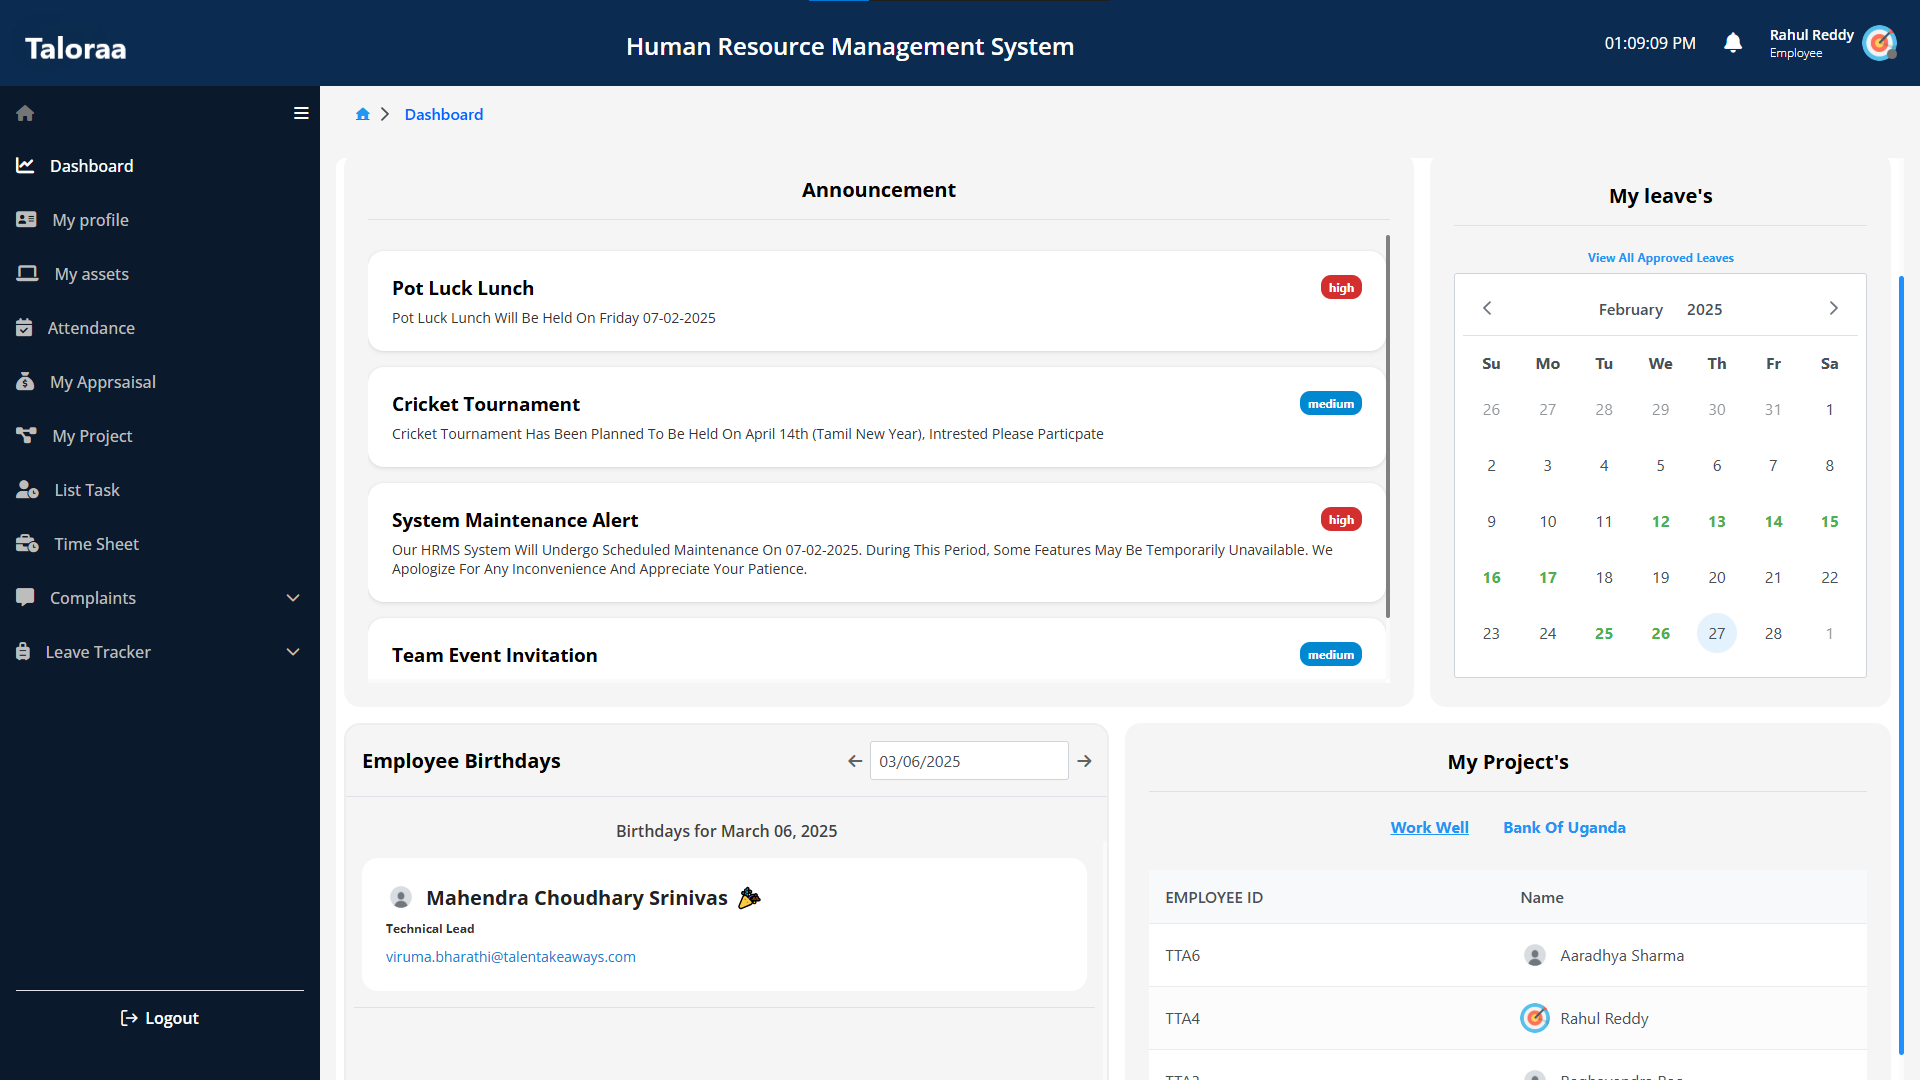
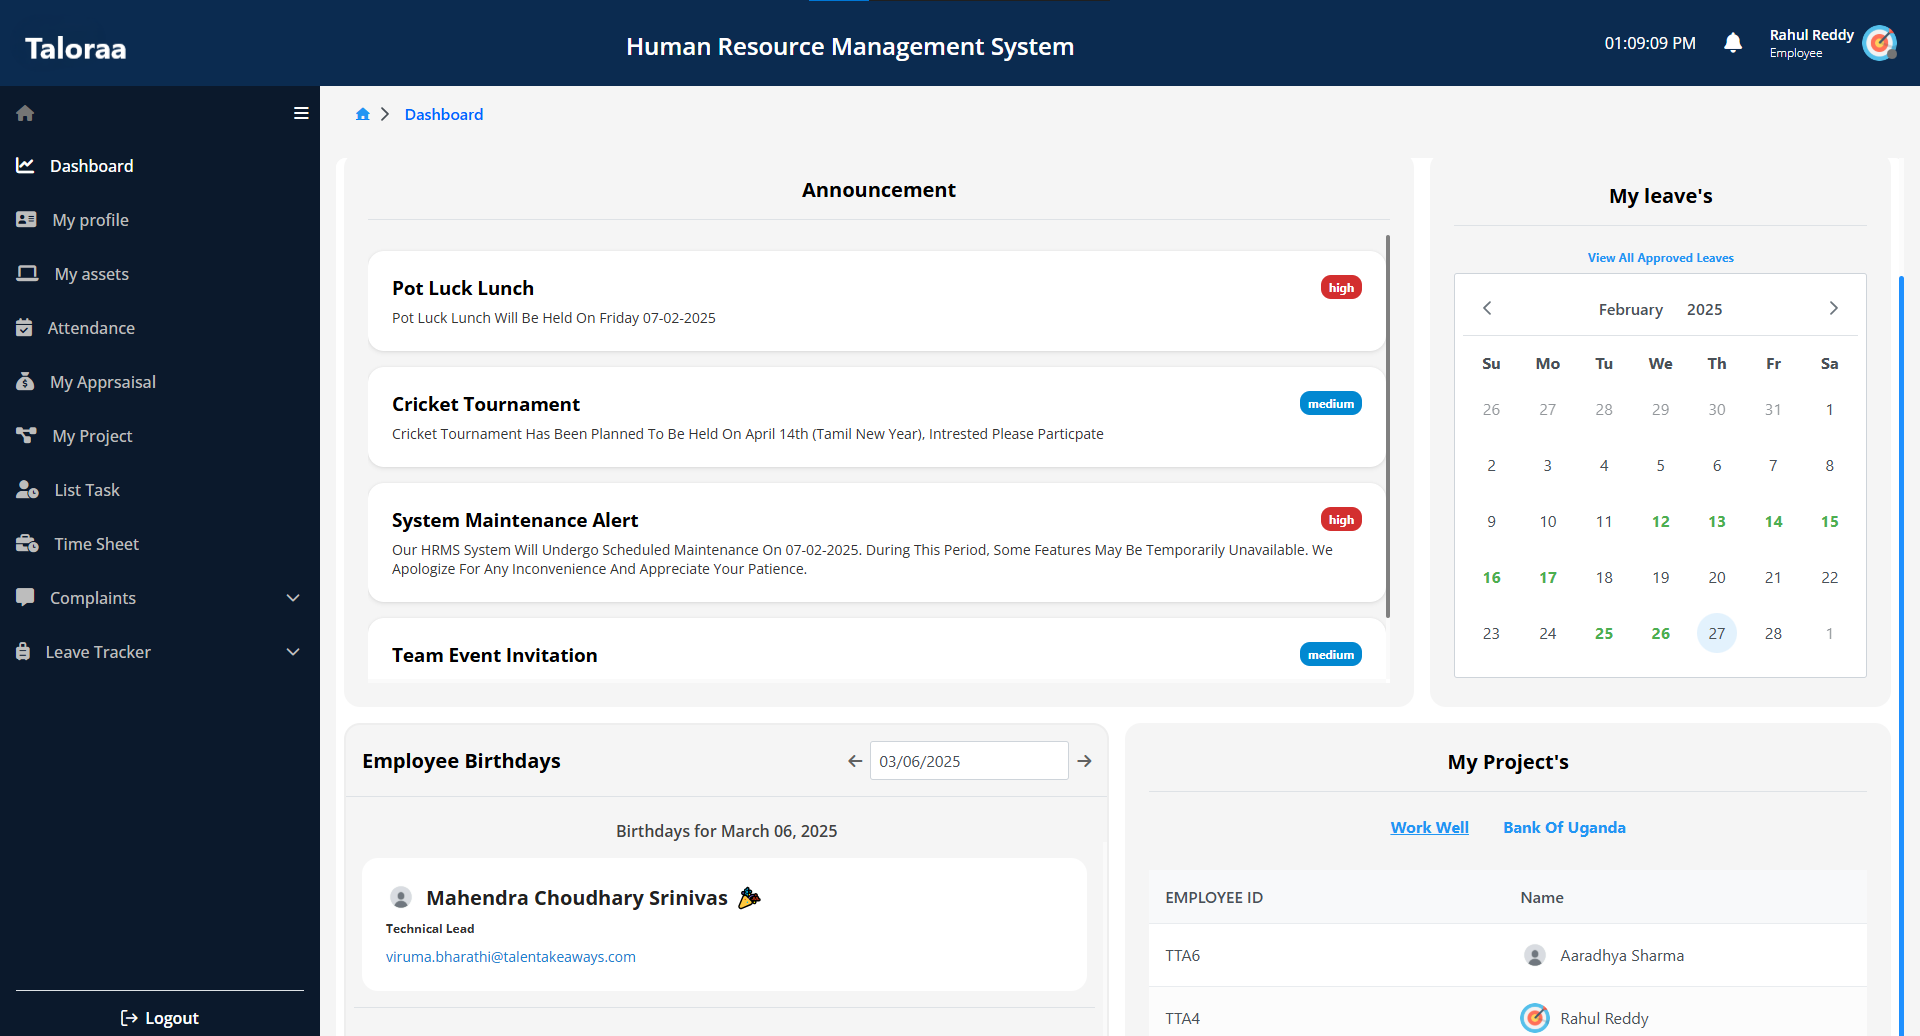
doneeeeee - 1

diff --git a/src/components/ProductScreenShot.tsx b/src/components/ProductScreenShot.tsx
@@ -11,6 +11,7 @@ import ss3 from "../assets/productss/3.png";
 import ss4 from "../assets/productss/4.png";
 
 import { Card, CardContent, CardHeader, CardTitle } from "@/components/ui/card";
+import { useState } from "react";
 
 interface ScreenshotProps {
   image: string;
@@ -46,6 +47,8 @@ const screenshots: ScreenshotProps[] = [
 ];
 
 export const ProductScreenshots = () => {
+  const [selectedImage, setSelectedImage] = useState(null);
+
   return (
     <section id="screenshots" className="container py-24 sm:py-28">
       <h2 className="text-3xl md:text-4xl font-bold text-center">
@@ -64,19 +67,21 @@ export const ProductScreenshots = () => {
         autoplay={{ delay: 4000 }}
         pagination={{ clickable: true }}
         navigation
-        className=" mx-auto"
+        className="mx-auto"
       >
         {screenshots.map(({ image, title, description }) => (
-          <SwiperSlide key={title} className="px-12 pb-12">
+          <SwiperSlide key={title} className="md:px-12 md:pb-12">
             <Card className="bg-muted/50">
               <CardHeader>
                 <CardTitle className="text-center">{title}</CardTitle>
               </CardHeader>
               <CardContent className="flex flex-col items-center">
+                {/* Clicking image opens zoom modal */}
                 <img
                   src={image}
                   alt={title}
-                  className="rounded-lg w-full h-auto shadow-md"
+                  className="rounded-lg w-full h-auto shadow-md cursor-pointer"
+                  onClick={() => setSelectedImage(image)}
                 />
                 <p className="text-center text-sm text-muted-foreground my-4">
                   {description}
@@ -86,6 +91,25 @@ export const ProductScreenshots = () => {
           </SwiperSlide>
         ))}
       </Swiper>
+
+      {/* Image Zoom Modal */}
+      {selectedImage && (
+        <div className="fixed inset-0 bg-black bg-opacity-80 flex items-center justify-center z-50">
+          <div className="relative max-w-7xl w-full p-4">
+            <button
+              className="absolute -top-4 right-4 lg:top-1 lg:-right-4 font-base lg:font-bold text-white text-lg cursor-pointer"
+              onClick={() => setSelectedImage(null)}
+            >
+              ✕
+            </button>
+            <img
+              src={selectedImage}
+              alt="Zoomed"
+              className="w-full h-auto rounded-lg shadow-lg"
+            />
+          </div>
+        </div>
+      )}
     </section>
   );
 };

diff --git a/src/index.css b/src/index.css
@@ -97,3 +97,18 @@ html {
 .dark .react-tel-input .country-list .country:hover {
   background-color: #333 !important; /* Darker hover */
 }
+
+.swiper-button-next,
+.swiper-button-prev {
+  color: white !important;
+  font-size: 20px !important; /* Change size */
+}
+
+.swiper-button-next::after,
+.swiper-button-prev::after {
+  font-size: 20px !important; /* Resize the icon */
+}
+
+.swiper-pagination {
+  bottom: -6px !important; /* Adjust this value to move further */
+}

diff --git a/src/components/Footer.tsx b/src/components/Footer.tsx
@@ -18,7 +18,7 @@ export const Footer = () => {
           >
             <img
               src={theme === "dark" ? logoDark : logoLight}
-              className="w-2/6 md:w-2/12"
+              className="w-2/6 md:w-2/12 lg:w-1/3"
             />
           </a>
         </div>

diff --git a/src/components/RequestDemo.tsx b/src/components/RequestDemo.tsx
@@ -107,7 +107,7 @@ export const RequestDemo = () => {
           />
 
           <PhoneInput
-            country={"us"}
+            country={"in"}
             value={formData.phoneNumber}
             onChange={handlePhoneChange}
             inputProps={{
